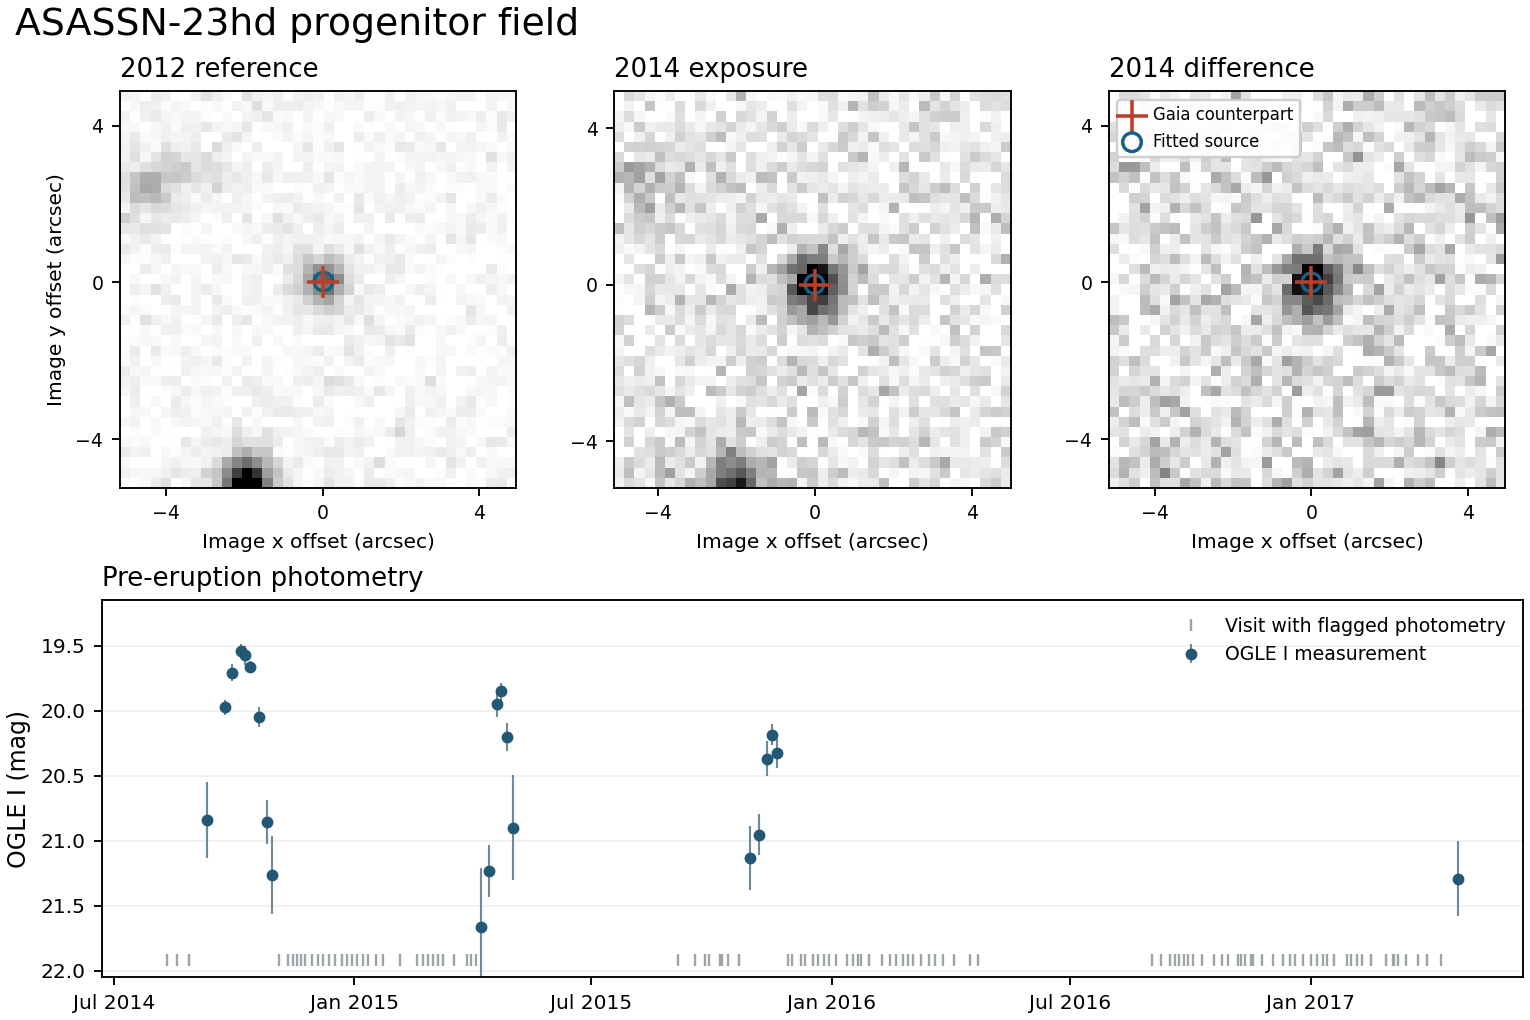
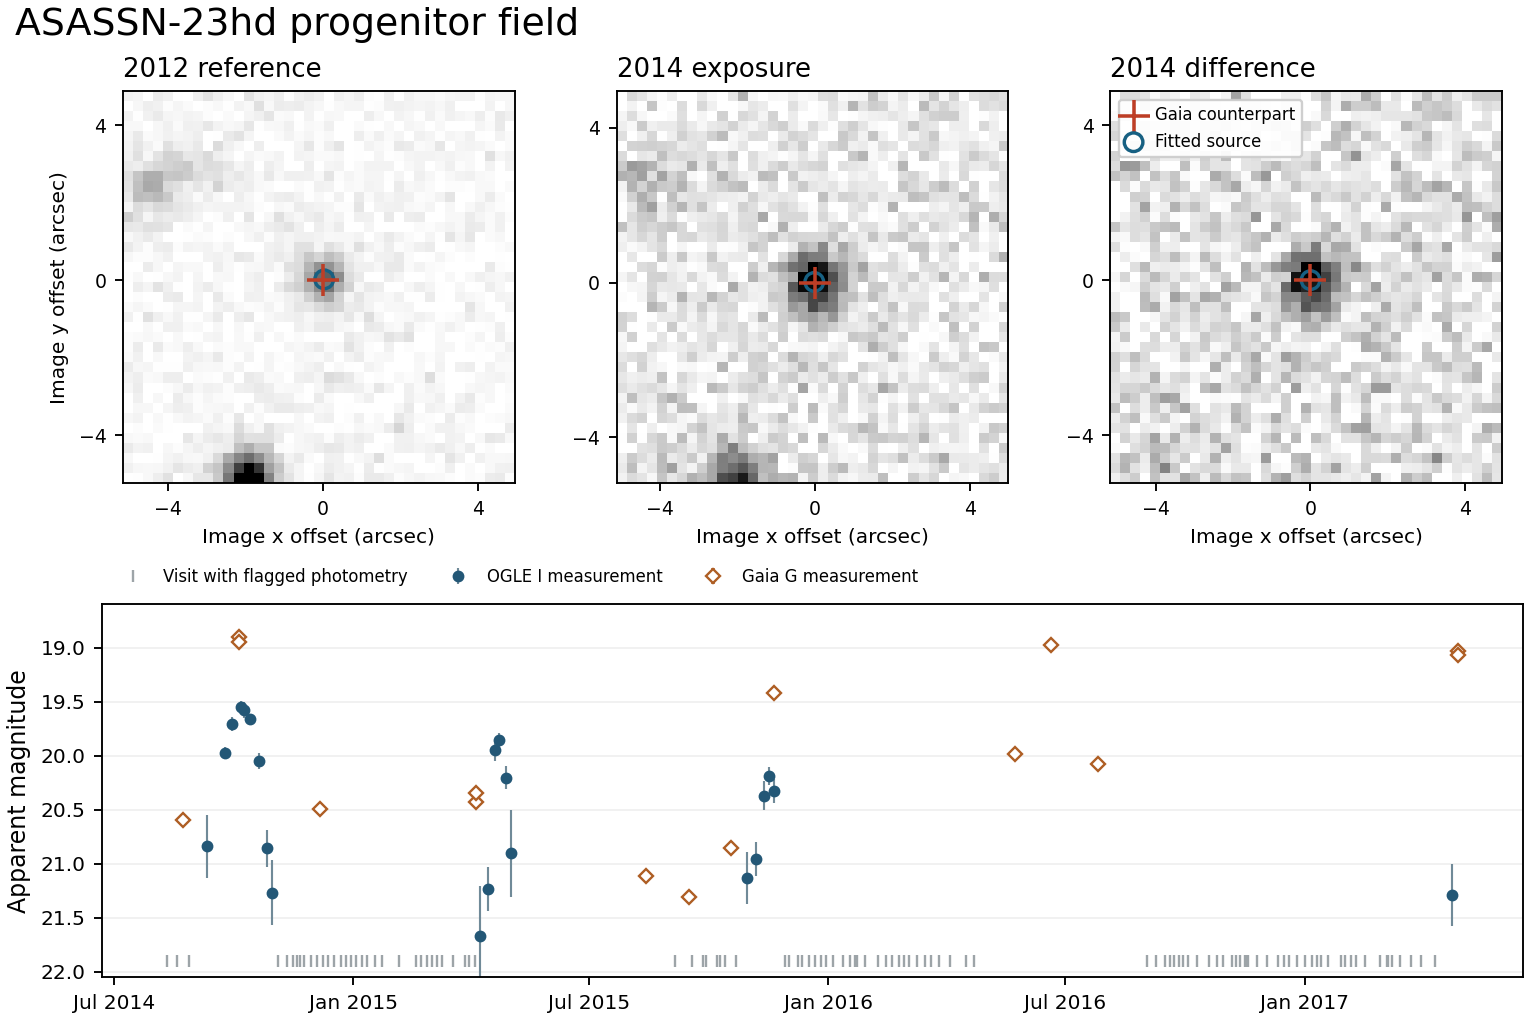
Measure two additional pre-eruption bright states in Gaia epoch photometry

diff --git a/results/asassn-23hd-pre-eruption/analyze.py b/results/asassn-23hd-pre-eruption/analyze.py
@@ -2,6 +2,7 @@
 import csv
 import hashlib
 import json
+from xml.etree import ElementTree
 from datetime import datetime, timedelta, timezone
 from pathlib import Path
 
@@ -158,6 +159,36 @@ def light_curve():
             "episodes":episodes}
 
 
+def gaia_light_curve():
+    table = ElementTree.parse(INPUTS / "gaia_epochs.xml")
+    columns = [field.attrib["name"] for field in table.findall(".//{*}FIELD")]
+    cells = [item.text.split() for item in table.findall(".//{*}TD")]
+    values = dict(zip(columns, cells))
+    assert values["source_id"] == [TARGET]
+    records = []
+    for i in range(int(values["n_transits"][0])):
+        if values["variability_flag_g_reject"][i].lower() == "true":
+            continue
+        time = 2455197.5 + float(values["g_transit_time"][i])
+        date = datetime(2000, 1, 1, 12) + timedelta(days=time - 2451545.)
+        entry = {"bjd_tcb":time, "date":date.date().isoformat(),
+                 "G":float(values["g_transit_mag"][i]),
+                 "error_G":float(2.5 / np.log(10) / float(values["g_transit_flux_over_error"][i]))}
+        for band in ["bp", "rp"]:
+            if values[f"variability_flag_{band}_reject"][i].lower() == "false":
+                entry[band.upper()] = float(values[f"{band}_mag"][i])
+        records.append(entry)
+    # Count distinct visits, retaining paired field-of-view transits as intranight checks.
+    groups = []
+    for row in records:
+        if not groups or row["bjd_tcb"] - groups[-1][-1]["bjd_tcb"] > 1:
+            groups.append([])
+        groups[-1].append(row)
+    visits = [{"date":g[0]["date"], "n_transits":len(g),
+               "median_G":float(np.median([r["G"] for r in g]))} for g in groups]
+    return {"transits":records, "visits":visits}
+
+
 def main():
     manifest = json.loads((ROOT / "provenance.json").read_text())
     for filename, source in manifest["inputs"].items():
@@ -170,7 +201,7 @@ def main():
     distances = np.linalg.norm(coordinates(other, target, 2016), axis=1)
     closest = other[np.argmin(distances)]
     report = {"gaia_dr3":TARGET, "gaia_ra":target["ra"], "gaia_dec":target["dec"],
-              "images":register(rows, target), "photometry":light_curve(),
+              "images":register(rows, target), "photometry":light_curve(), "gaia_photometry":gaia_light_curve(),
               "local_field":{"other_sources_within_60_arcsec":int((distances <= 60).sum()),
                              "nearest_other_source":closest["source_id"],
                              "nearest_other_arcsec":float(distances.min())}}

diff --git a/results/asassn-23hd-pre-eruption/plot.py b/results/asassn-23hd-pre-eruption/plot.py
@@ -49,13 +49,18 @@ ax.errorbar(dates[selected], data[selected,1], yerr=data[selected,2], fmt="o",
             label="OGLE I measurement")
 ax.plot(dates[~selected], np.full((~selected).sum(), .045), "|", color="#9da4a8",
         markersize=5, transform=ax.get_xaxis_transform(), label="Visit with flagged photometry")
-ax.set_ylim(22.05,19.15)
-ax.set_ylabel("OGLE I (mag)")
+gaia = report["gaia_photometry"]["transits"]
+gaia_dates = [datetime.fromisoformat(row["date"]) for row in gaia]
+ax.errorbar(gaia_dates, [row["G"] for row in gaia], yerr=[row["error_G"] for row in gaia],
+            fmt="D", markersize=4, mfc="white", mec="#ae5e24", ecolor="#ae5e24",
+            label="Gaia G measurement", zorder=3)
+ax.set_ylim(22.05,18.6)
+ax.set_ylabel("Apparent magnitude")
 ax.xaxis.set_major_locator(mdates.MonthLocator(bymonth=[1,7]))
 ax.xaxis.set_major_formatter(mdates.DateFormatter("%b %Y"))
 ax.tick_params(labelsize=8.5)
 ax.grid(axis="y", alpha=.18)
-ax.legend(loc="upper right", fontsize=8, frameon=False)
-ax.set_title("Pre-eruption photometry", loc="left", fontsize=11)
+ax.legend(loc="lower left", bbox_to_anchor=(0, 1.01), ncol=3, fontsize=7, frameon=False)
+
 fig.suptitle("ASASSN-23hd progenitor field", x=.01, ha="left", fontsize=16)
 fig.savefig(ROOT / "field-and-photometry.png", dpi=170)

diff --git a/results/asassn-23hd-pre-eruption/README.md b/results/asassn-23hd-pre-eruption/README.md
@@ -1,8 +1,10 @@
-# Three optical brightenings of the likely progenitor of LMC nova ASASSN-23hd
+# Two additional pre-eruption bright states of LMC nova ASASSN-23hd
 
-SIMBAD already identifies the OGLE transient with ASASSN-23hd. This branch preserves an image-level verification. The light that brightened on 6 October 2014 in the OGLE difference image falls on Gaia DR3 4662989888116855808, the likely progenitor independently identified by SOAR astrometry during the 2023 classical-nova eruption. The fitted separation is **0.004 arcsec**, within the **0.033 arcsec** radial registration scatter of 30 field stars. The original science frame gives a separation of **0.024 arcsec** on a separately fitted plate. The OGLE archive and a VLT Survey Telescope (VST) follow-up document three brightenings at this location, 7.9 to 9.0 years before the nova. [OGLE discovery](https://www.astronomerstelegram.org/?read=6573) · [GRAWITA VST follow-up, Figure 6 and Table 4](https://doi.org/10.1093/mnras/stx2730) · [SOAR astrometry and classification](https://www.astronomerstelegram.org/?read=16294)
+Gaia recorded the likely progenitor of the very fast LMC nova ASASSN-23hd at **G = 18.974 ± 0.017 on 20 June 2016** and **G = 19.032 ± 0.016 and 19.064 ± 0.016 on 29 April 2017**. A fainter July 2016 observation separates the two bright states. These expand the source's published three-episode history through June 2016 and April 2017, more than six years before the 2023 classical nova. The Gaia time series was public and contributed to a CV classification. We did not locate an explicit report of these two dated episodes in the cited source histories. [Gaia DR3 epoch photometry](https://doi.org/10.17876/gaia/dr.3/55) · [Earlier optical episodes](https://doi.org/10.1093/mnras/stx2730) · [LMC nova census](https://arxiv.org/abs/2607.23849)
 
-The 2018 GRAWITA paper discussed OGLE-2014-SN-094 as a possible active galactic nucleus on the basis of repeated optical activity and a GALEX ultraviolet source. The 2023 SOAR team identified a classical nova from its spectrum and linked its position to the Gaia star. Shafter's 2026 LMC census discusses the 2023 eruption and its 1.8 ± 0.2 day decline by two magnitudes. SIMBAD already cross-identifies OGLE 2014-SN-94, ASASSN -23hd, AT 2023uwa, LMCN 2023-10a, the Gaia source and the VST transient under one main identifier. AAVSO VSX also lists the nova at the OGLE/Gaia position. Gaia DR3’s variability classifier assigned the source to the CV class (score 0.649) using data obtained before the 2023 eruption. The individual brightenings and the source association both have prior records. This contribution independently verifies the catalog link with a difference image, quantifies its uncertainty and measures the pre-eruption history. It is a validation. [SIMBAD object](https://simbad.cfa.harvard.edu/simbad/sim-id?Ident=OGLE+2014-SN-94) · [Frozen SIMBAD alias query](inputs/simbad_aliases.csv) · [Nova census, section II.1.61](https://arxiv.org/abs/2607.23849) · [VSX record](https://www.aavso.org/vsx/index.php?view=detail.top&oid=2388229)
+The light that brightened on 6 October 2014 in the OGLE difference image falls on Gaia DR3 4662989888116855808, the likely progenitor independently identified by SOAR astrometry during the 2023 classical-nova eruption. The fitted separation is **0.004 arcsec**, within the **0.033 arcsec** radial registration scatter of 30 field stars. The original science frame gives a separation of **0.024 arcsec** on a separately fitted plate. The OGLE archive and a VLT Survey Telescope (VST) follow-up document three brightenings at this location, 7.9 to 9.0 years before the nova. [OGLE discovery](https://www.astronomerstelegram.org/?read=6573) · [GRAWITA VST follow-up, Figure 6 and Table 4](https://doi.org/10.1093/mnras/stx2730) · [SOAR astrometry and classification](https://www.astronomerstelegram.org/?read=16294)
+
+The 2018 GRAWITA paper discussed OGLE-2014-SN-094 as a possible active galactic nucleus on the basis of repeated optical activity and a GALEX ultraviolet source. The 2023 SOAR team identified a classical nova from its spectrum and linked its position to the Gaia star. Shafter's 2026 LMC census discusses the 2023 eruption and its 1.8 ± 0.2 day decline by two magnitudes. SIMBAD already cross-identifies OGLE 2014-SN-94, ASASSN -23hd, AT 2023uwa, LMCN 2023-10a, the Gaia source and the VST transient under one main identifier. AAVSO VSX also lists the nova at the OGLE/Gaia position. Gaia DR3’s variability classifier assigned the source to the CV class (score 0.649) using data obtained before the 2023 eruption. The individual brightenings and the source association both have prior records. The catalog association and the first three optical episodes provide controls for the later Gaia measurements. [SIMBAD object](https://simbad.cfa.harvard.edu/simbad/sim-id?Ident=OGLE+2014-SN-94) · [Frozen SIMBAD alias query](inputs/simbad_aliases.csv) · [Nova census, section II.1.61](https://arxiv.org/abs/2607.23849) · [VSX record](https://www.aavso.org/vsx/index.php?view=detail.top&oid=2388229)
 
 ![Three registered OGLE image cutouts and the OGLE light curve of the nova progenitor](field-and-photometry.png)
 
@@ -19,6 +21,19 @@ The OGLE archive identifies the source as LMC541.27.577. The archived I-band fil
 | 2015-11-16 | 20.184 ± 0.082 | 5 | 21.0 d |
 
 VST independently observed the third episode on 11 November 2015, measuring approximately r = 19.5. Its published position is 0.36 arcsec from the Gaia source. The first and last OGLE brightest observations precede the 2023 eruption by 3,294 and 2,888 days respectively. The 2023 event reached g ≈ 10.4. Different passbands and incomplete sampling preclude a direct peak-to-peak flux ratio. No spectra of these faint episodes establish a mechanism. Accretion variability is a possible explanation. A thermonuclear recurrence, a recurrence period, or a causal trigger for the 2023 eruption would each require additional evidence.
+
+## Gaia coverage beyond the three reported episodes
+
+Gaia supplied 16 transits on 12 distinct dates. All 16 G observations pass its variability rejection flag. The October 2014 doublet (G = 18.901 and 18.949) occurred the day before the OGLE peak, and the November 2015 transit (G = 19.418) coincided with the third OGLE episode. In the two subsequent observing years, Gaia exceeded G = 19.1 on two dates. This threshold selects the June 2016 and April 2017 visits as well as the October 2014 control. It is descriptive, selected after inspection. [Data model and time convention](https://gea.esac.esa.int/archive/documentation/GDR3/Gaia_archive/chap_datamodel/sec_dm_photometry/ssec_dm_epoch_photometry.html) · [Frozen Gaia measurements](inputs/gaia_epochs.xml)
+
+| Gaia visit | G (mag) | Evidence |
+| --- | ---: | --- |
+| 2016-05-23 | 19.980 ± 0.020 | Fainter before the June brightening |
+| 2016-06-20 | 18.974 ± 0.017 | Brightened 1.006 mag since May. BP = 19.09, RP = 18.82 |
+| 2016-07-26 | 20.076 ± 0.013 | Faded 1.101 mag since June |
+| 2017-04-29 | 19.032 ± 0.016, 19.064 ± 0.016 | Two transits 1.78 hours apart. First has BP = 18.86 and RP = 18.83 |
+
+The May and July observations bracket the June bright state in a 64-day interval. The second April 2017 transit has rejected BP/RP data, which are excluded. The G errors are formal flux errors propagated to magnitudes. The sparse visits leave the outburst durations, peaks and recurrence interval unresolved. The marginal OGLE I measurement 5.8 days before the final Gaia visit supplies timing context. It does not establish the 2017 amplitude by itself. The 2023 eruption is the sole event here with a nova spectrum.
 
 ## Astrometric checks
 
